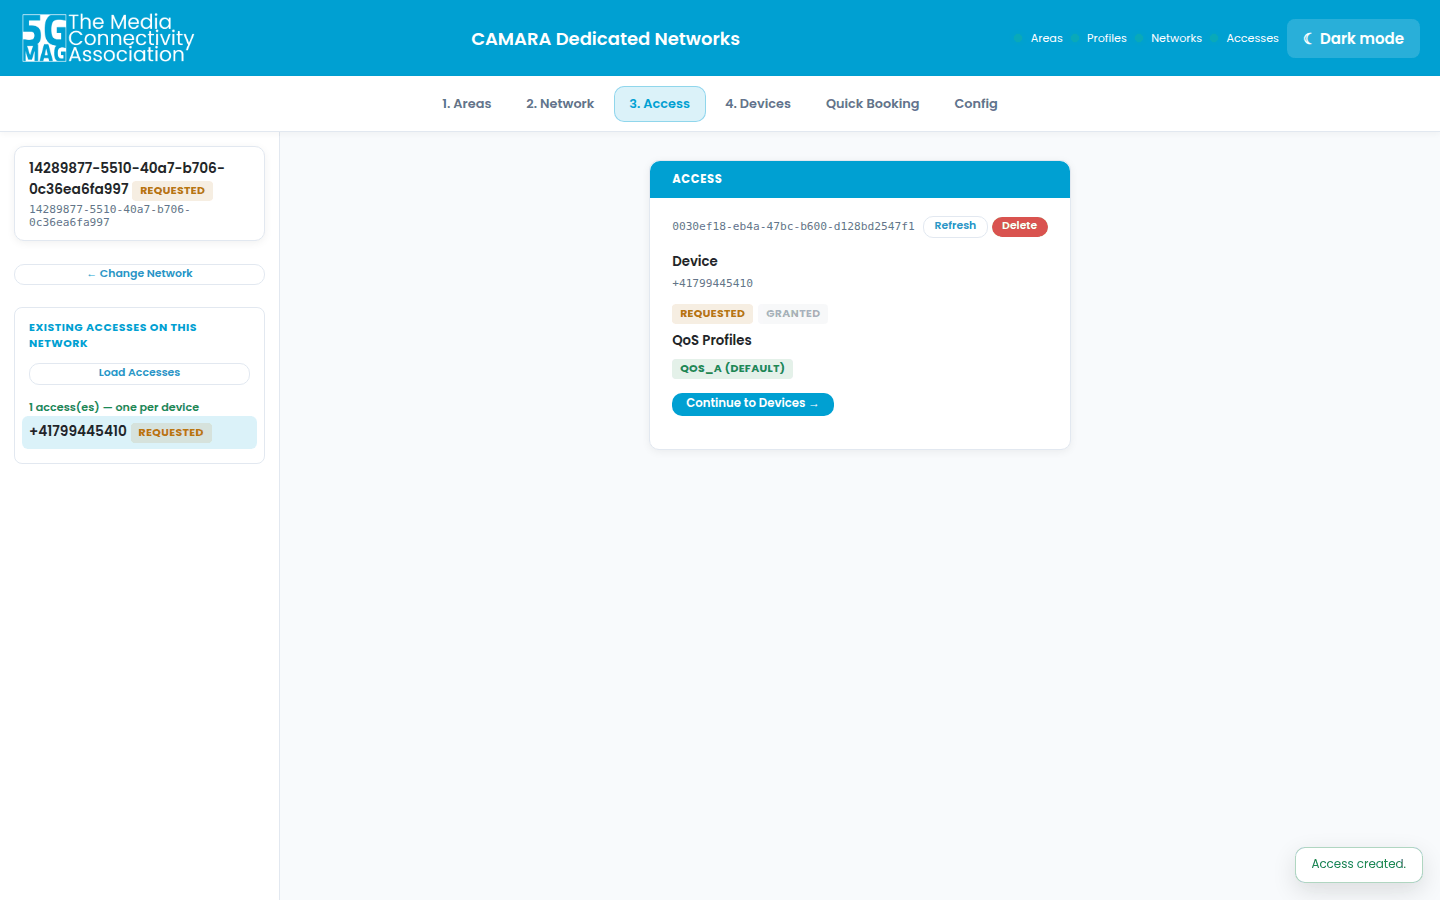
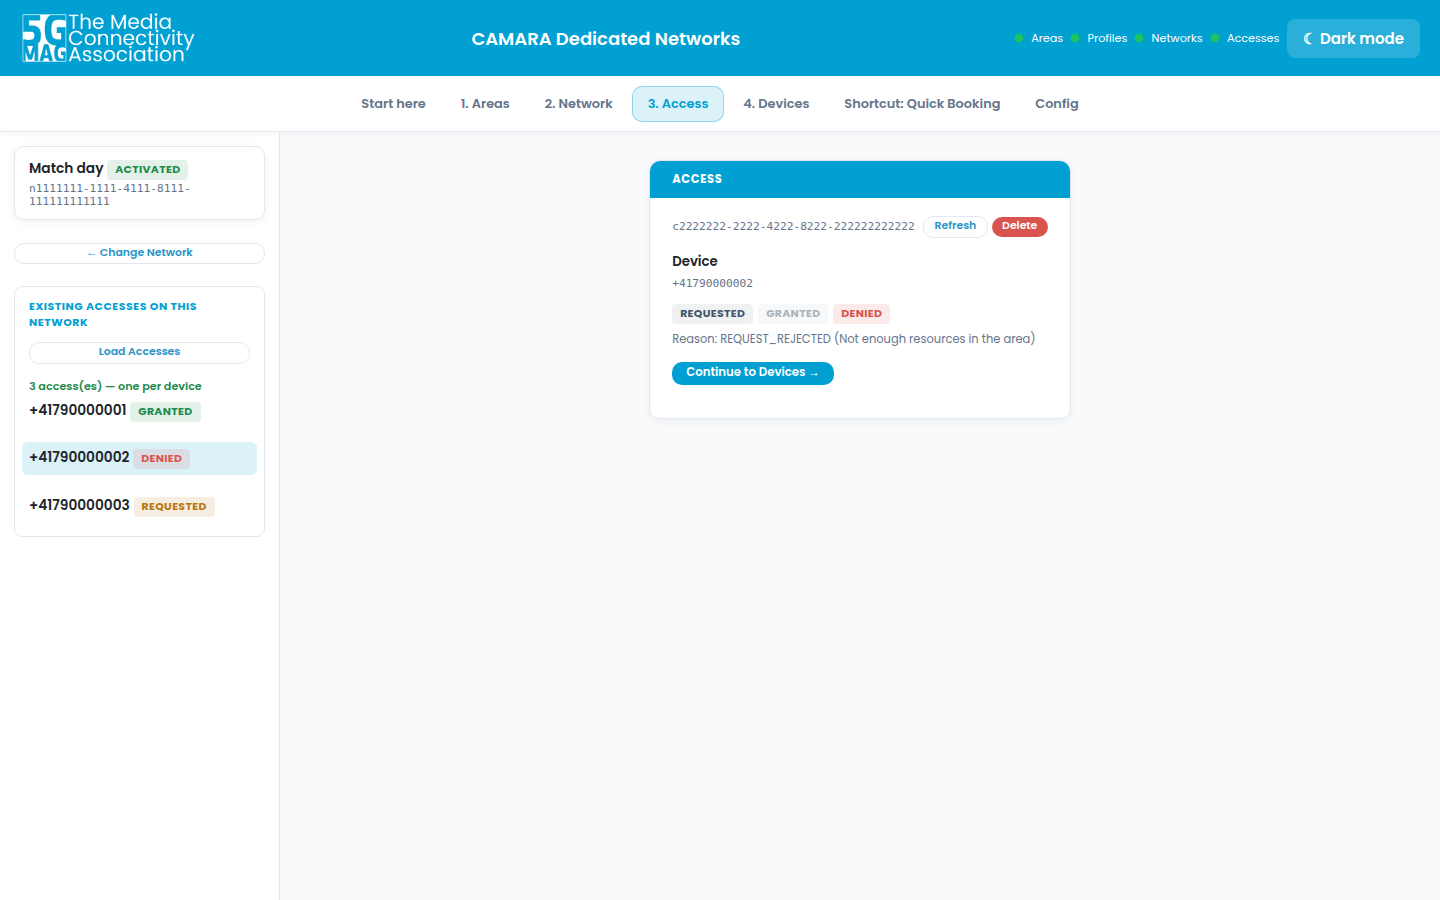
docs: describe the reworked portal in its README and refresh the screenshots
Problem
  The portal README still described Quick Booking as a tab "alongside" the
  flow, a lifecycle tracker without the DENIED state, and the old Devices
  tab; docs/screenshots showed the previous UI.  [code-derived]

Basis
  No clause governs this; the portal as changed in this PR.

Raised by
  Review by the repository owner.

Change
  README introduction: the Start here tab and the workflow it follows, the
  Shortcut: Quick Booking tab after the four stages, the three access
  states (REQUESTED, GRANTED, DENIED) with the denial reason, and the
  Devices tab. Screenshots access-detail.png, devices.png and
  quick-booking.png replaced and start-here.png added, 1440x900 like the
  others, taken against stubbed API data (example phone numbers).

Verification
  T0: screenshots taken from a local run of this branch.

Not in this change
  areas.png, network-create.png, network-detail.png, access-create.png
  (those tabs are unchanged).

diff --git a/management-portal/DedicatedNetworks/README.md b/management-portal/DedicatedNetworks/README.md
@@ -8,18 +8,24 @@ Accesses and Profiles — plus a one-click Quick Booking shortcut.
 The portal walks a user through the full dedicated-network lifecycle as one guided flow —
 **Areas → Network → Access → Devices** — where each stage is disabled with a one-line reason
 until its prerequisite is done, and exercises the full parameter surface of its CAMARA API rather
-than a cut-down subset. A **Quick Booking** tab sits alongside it for the one-click case (pick a
-point on the map, set a phone number and a time window, get a network + access in one request);
-both share the same state, so a network booked via Quick Booking shows up already unlocked in
-Devices.
+than a cut-down subset. A **Start here** tab, shown on a first visit, follows the Dedicated Networks workflow on
+[5g-mag.com](https://www.5g-mag.com/tech/network-apis/content-production/using-dedicated-networks)
+(pre-conditions, before using the network, during operation, dismantling), marks who performs each
+step (application provider or operator) and names the tab that does it. After the four stages,
+**Shortcut: Quick Booking** covers one narrow case of tabs 1 to 3 in a single form (pick a point on the map, set a phone number and a time window, get a
+network and an access in one request); both share the same state, so a network booked through the
+shortcut shows up already unlocked in Devices.
 
 - **Service areas** — search by point, drawn circle or polygon (overlapping/covering), or by
   name / network-profile / QoS-profile filters, combinable
 - **Networks** — reserve by network profile *or* QoS profile, for a chosen area and time window,
   with optional callback (webhook) configuration
-- **Accesses & Devices** — grant a local device identity access to a network; a full lifecycle
-  tracker shows every possible status as a row of badges, with the current one highlighted, so
-  progress is never ambiguous
+- **Accesses** — grant a device access to a network; the tracker always shows the three access
+  states the API defines (REQUESTED, GRANTED, DENIED), highlights the current one and, for a
+  denied access, shows the reason code and message
+- **Devices** — create devices by phone number (MSISDN; kept in the browser, since the Accesses
+  API has no device list), give one access to the current network from a drop-down, and see
+  every access each device is part of, on any network
 - **Live status** — adaptive polling (fast while transitioning or near expiry, slow once stable)
 - **Dark mode**, offline-bundled map assets, no CDN dependency at runtime
 
